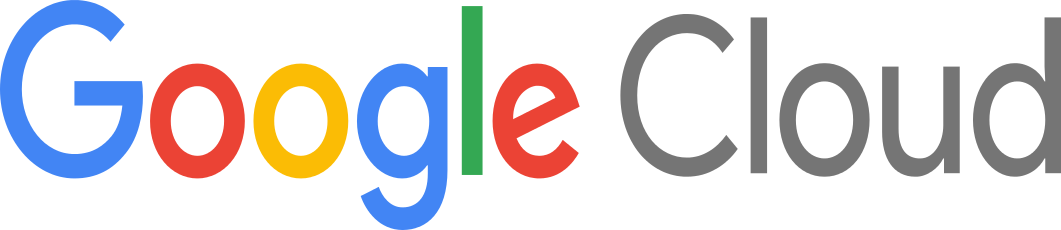
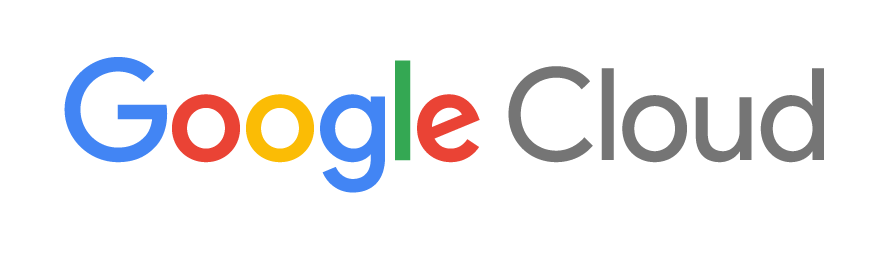
Revert "fixed issue #45"

diff --git a/index.html b/index.html
@@ -274,8 +274,7 @@
 								<div class="col-md-4 col-sm-6 sponsor-column">
 								<div class="sponsor text-center">
 									<a href="https://www.google.com/cloud/" target="default">
-										<img alt="Sponsor" src="img/google.png" style="height: 42px;">
- >
+										<img alt="Sponsor" src="img/google.png">
 									</a>
 								</div>
 							</div>

diff --git a/css/theme.css b/css/theme.css
@@ -1983,7 +1983,7 @@ p.question {
   line-height: 80px;
 }
 .sponsor img {
-  max-width: 200px;
+  max-width: 150px;
   transition: all 0.3s ease-out;
   -webkit-transition: all 0.3s ease-out;
   -moz-transition: all 0.3s ease-out;
